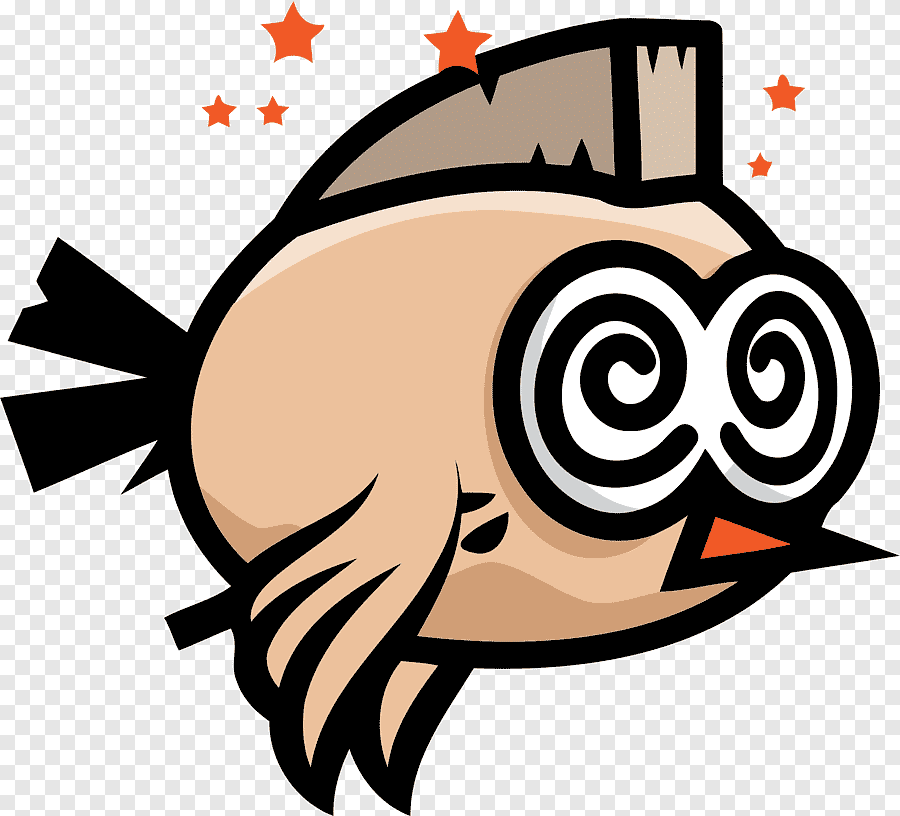
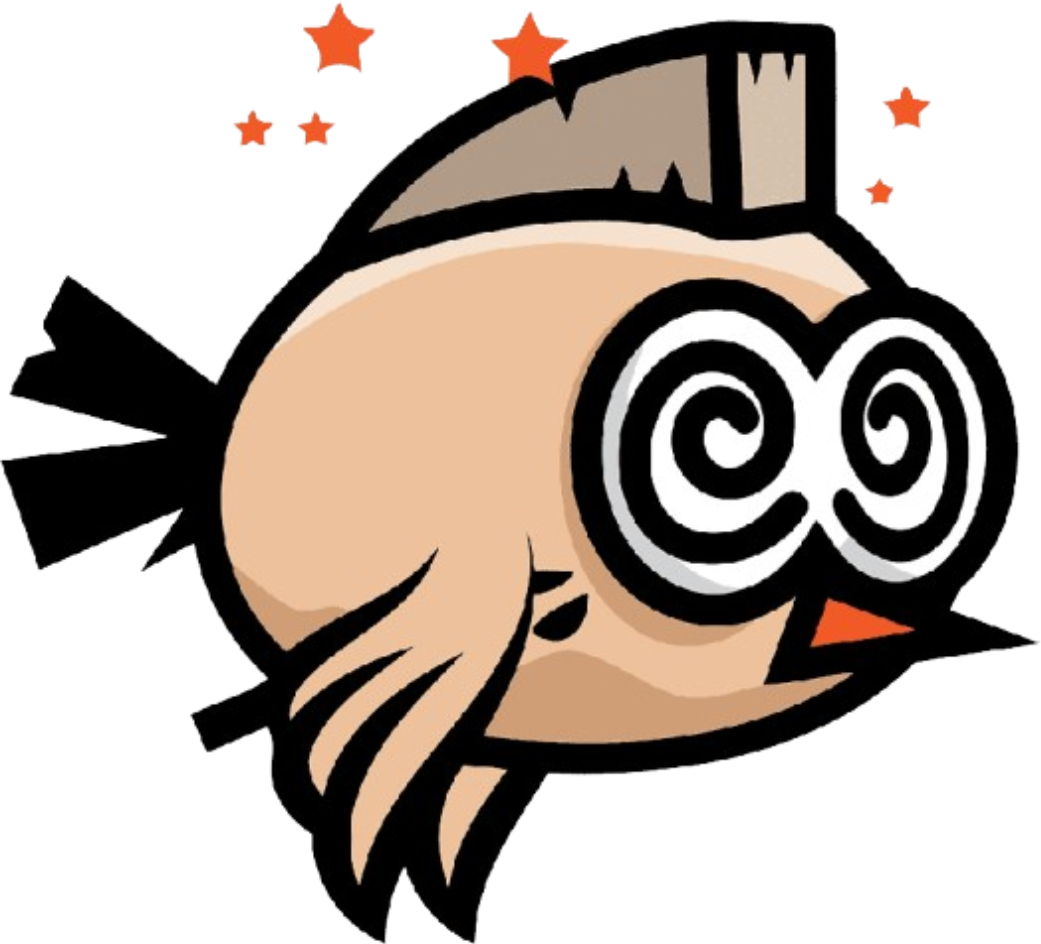
Removed Image Background

diff --git a/MyWorld.java b/MyWorld.java
@@ -2,13 +2,13 @@ import greenfoot.*;
 
 public class MyWorld extends World {
     public MyWorld() {
-        super(800, 455, 1);
+        super(800, 450, 1);
         
         //Sets the background image
         setBackground(new GreenfootImage("Background.jpg"));
         
         FlappyBird flappy = new FlappyBird();
-        addObject(flappy, 300, 300);
+        addObject(flappy, 100, getHeight()/2);
     }
     
     
